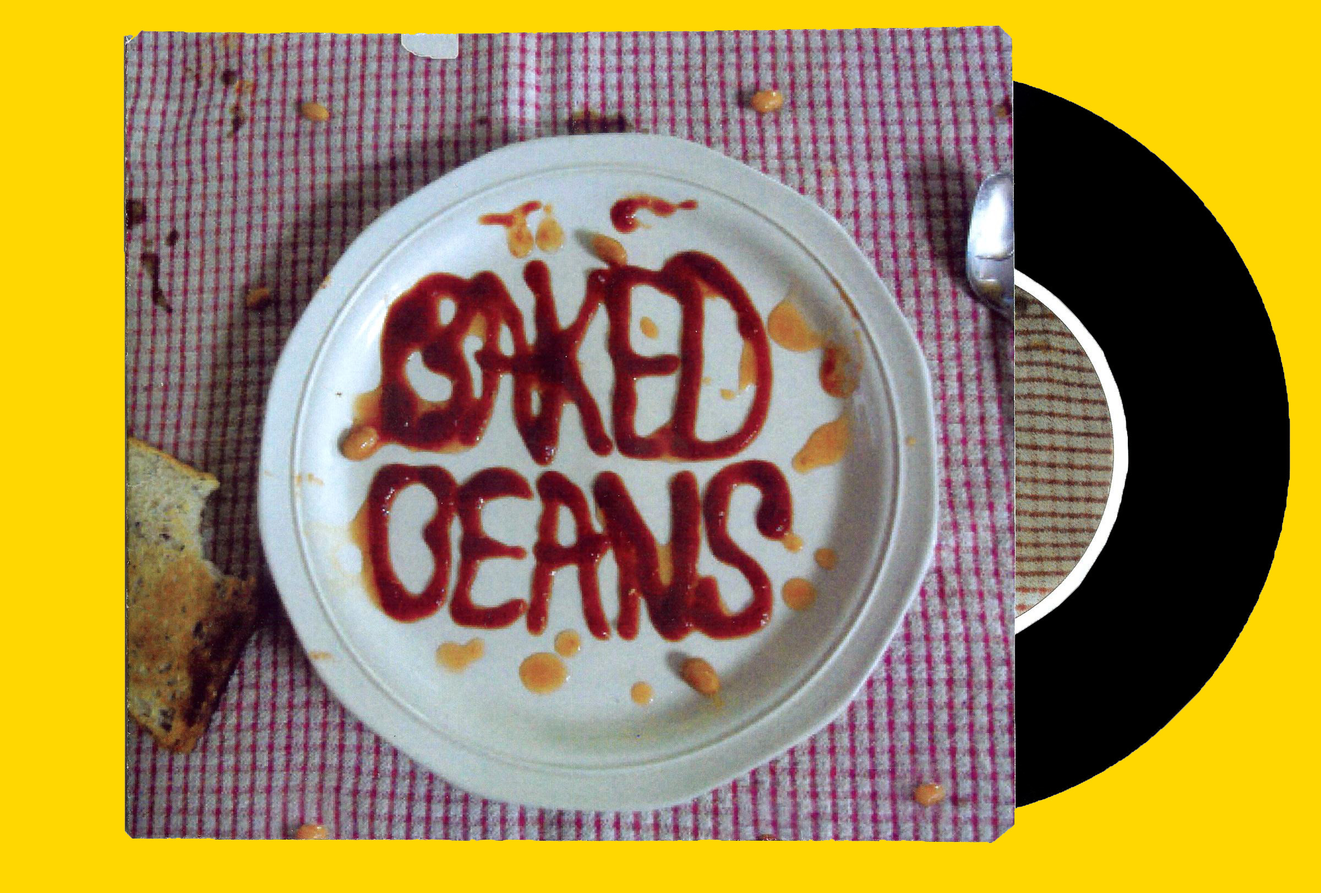
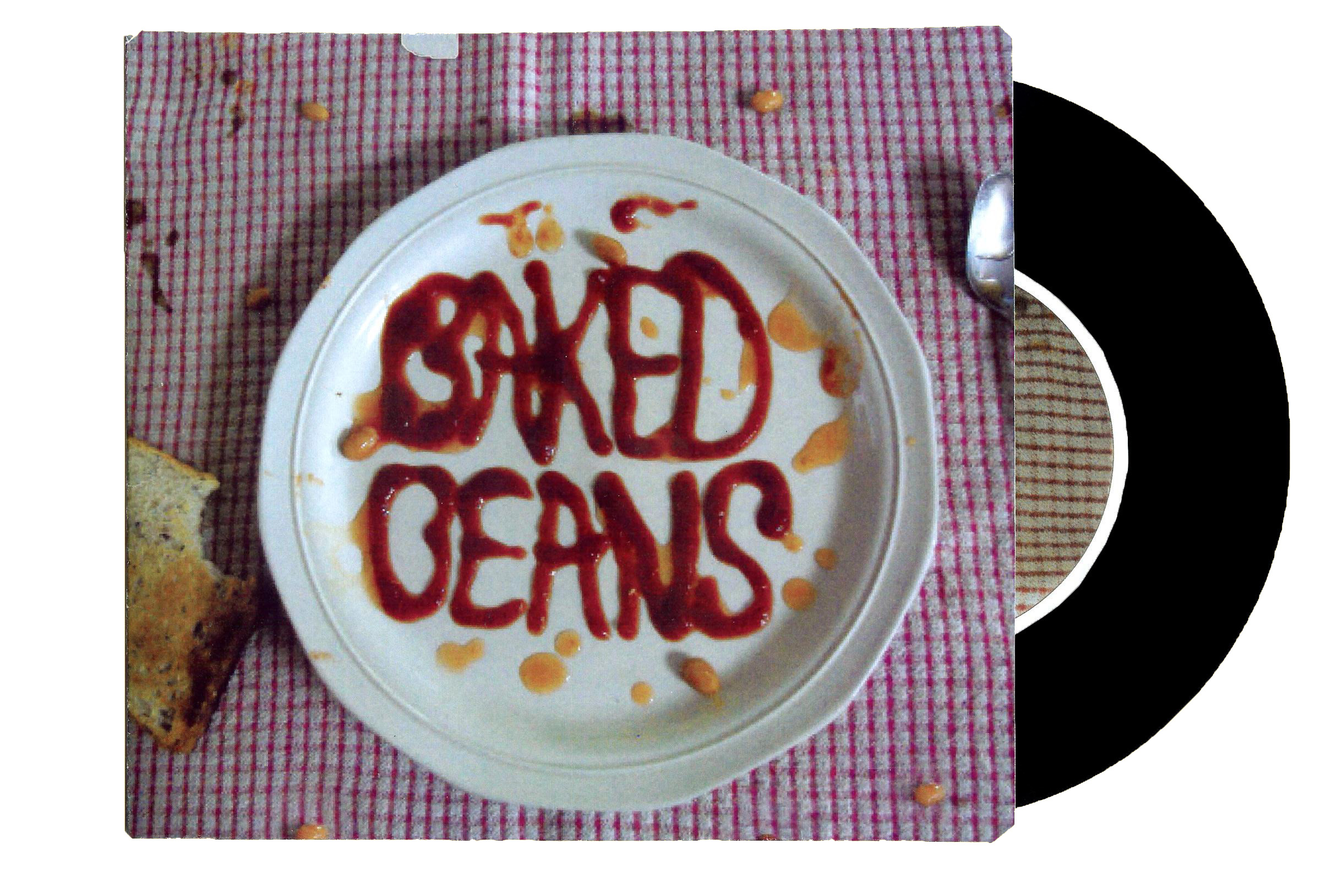
update index.html

Changed region(s): [[0.0, 0.0, 1.0, 1.0]]

diff --git a/index.html b/index.html
@@ -27,9 +27,12 @@ LIBERATORE <br>
 </div>
 
 <div class = "body">
-<br> Welcome to my design folio, my name is Michael! I am a Monash Communication Design and Business (Marketing) graduate. I am passionate about print media, publication design, branding and typography. My portfolio will provide you with an insight into my design skills, thinking and interests <br>
+<br> Welcome to my design folio, my name is Michael! I am a Melbourne based graphic designer that specialises in print-based and digital design. I studied a Bachelor's of Communication Design and Business (Marketing) at Monash University and I am passionate about music, printed media, and the endless possibilities design can bring to any business, brand or creative project. <br>
 
-<br> I am happy to provide my PDF portfolio and references upon request :) <br>
+<br> Continue on to gain an insight into my design skills, thinking and interests and through my design experience and processes I hope to create something great with you.
+
+<br>
+
 </div>
 
 <div class = "WORK">
@@ -354,7 +357,7 @@ BLACK AND WHITE TOTE BAG DESIGN <br>
 
 <div class = "item Personal">
 <img src="assets/images/logo-refined-1.png">
-COOUCHDOG COLLECTIVE LOGO REDESIGN <br>
+COUCHDOG COLLECTIVE LOGO REDESIGN <br>
 
 <br> I went for a more illustrative type design consisting of dogs forming each letter of the logo to create a playful and more visually expressive logo to suit the style of content Couchdog Collective produces. <br>
 

diff --git a/assets/css/main.css b/assets/css/main.css
@@ -6,7 +6,7 @@ color: red;
 text-align: left;
 position: relative;
 bottom: 200px;
-background-color: gold;
+background-color: white; 
 
 }
 
@@ -47,7 +47,7 @@ bottom: 200px;
 
 .nav {
 justify-content:flex-start;
-background-color: gold;
+background-color: white; 
 top: 20px; 
 left: 500px;
 width: 100%;
@@ -68,7 +68,7 @@ display: inline-block;
 
 .btn:hover {
 background-color: red;
-color: gold;
+color: white; 
 cursor: pointer;
 
 }
@@ -93,7 +93,7 @@ flex-wrap: nowrap;
 flex-direction: row-reverse;
 padding-top: 50px;
 text-align: center;
-background-color: gold;
+background-color: white; 
 
 }
 
@@ -101,7 +101,7 @@ background-color: gold;
 width: 50%;
 padding: 20px;
 text-align: center;
-background-color: gold;
+background-color: white;
 
 }
 
@@ -110,7 +110,7 @@ max-width: 100%;
 display: block;
 margin: auto;
 padding-bottom: 120px;
-background-color: gold;
+background-color: white; 
 
 }
 
